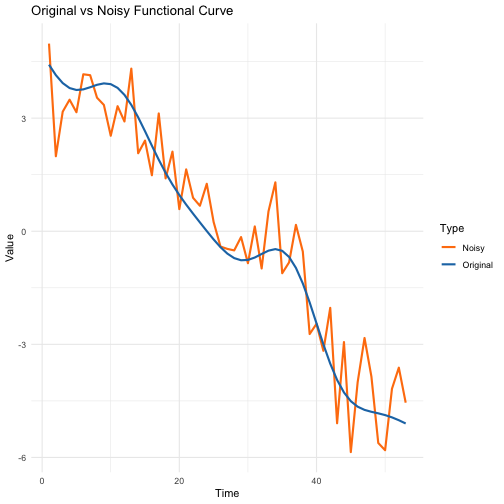
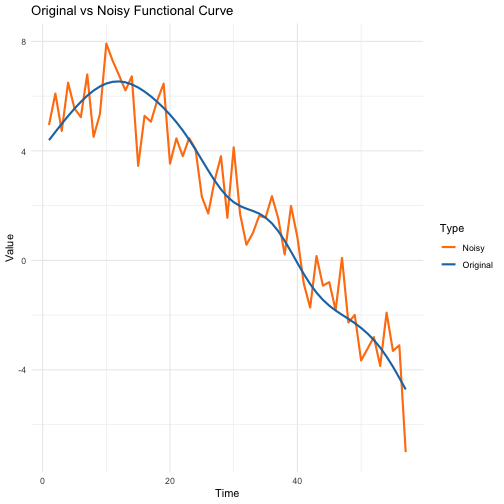
CRAN re-submission

diff --git a/cran-comments.md b/cran-comments.md
@@ -19,4 +19,9 @@ observed functional data.
 - macOS-latest (release and R devel), macOS-latest-arm64 (release and R devel), windows-latest (release and R devel), ubuntu-latest (R devel, release, oldrel)
 - win-builder (release, R devel)
 
+## CRAN re-submission
+
+- Remove seed from `data_generator.R`
+- Modify description (modify titles, add quotes, correct DOI, remove unnecesary spaces)
+- Remove \dontrun from `vd_fit` examples
 
